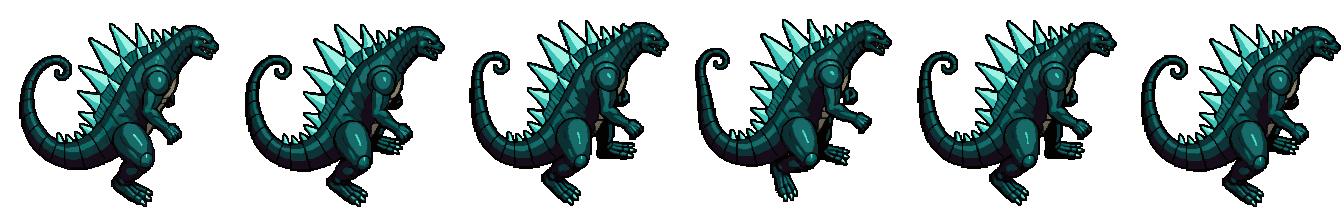
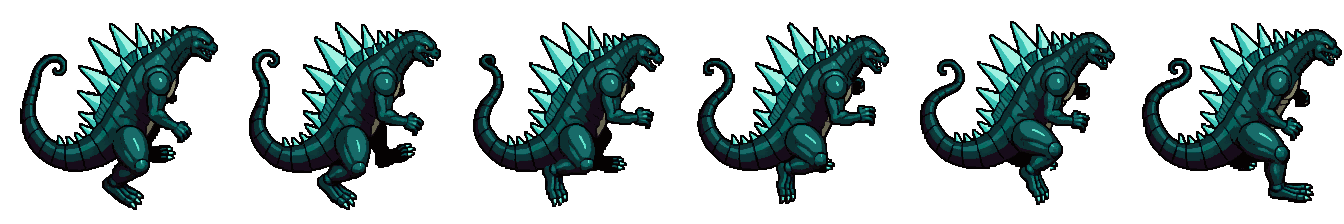
T-613: walk east v3 with frame 5's far leg drawn back in (free hand fix)

Changed region(s): [[0.0, 0.0938, 1.0, 0.9375]]

diff --git a/game/tools/fix_kaiju_walk_e_frame5.py b/game/tools/fix_kaiju_walk_e_frame5.py
@@ -1,0 +1,48 @@
+#!/usr/bin/env python3
+"""T-613 hand fix (board, 2026-11-09), free, no PixelLab: draws the far leg back into frame 5 of the kaiju's walk east.
+
+Walk east version 3 (art-archive/T-613/kaiju_walk_e_v3a.png) loses the far (dark, in shadow) leg in its 5th frame
+(index 4): frames 1 to 4 and 6 show it as a near-black silhouette with two cyan claws beside the planted leg, frame 5 shows
+nothing. The far foot is taken from frame 4's own pixels (box FOOT_BOX: the silhouette and claws right of the knee),
+moved half the way to where frame 6 has it (SHIFT_X) and drawn behind frame 5's own pixels, so the colours are the
+still's palette, the outline is the sheet's own, and the near leg and the ground point are not touched.
+Run from the repo root: python game/tools/fix_kaiju_walk_e_frame5.py [IN.png OUT.png]
+"""
+import sys
+from pathlib import Path
+
+from PIL import Image
+
+FRAME = 224
+SRC_FRAME = 3          # frame 4 (0-based), the neighbour the foot is taken from
+TARGET_FRAME = 4       # frame 5
+FOOT_BOX = (155, 150, 170, 173)   # x0, y0, x1, y1 (x1, y1 excluded) inside the frame
+SHIFT_X = -1
+SHIFT_Y = 0
+
+
+def fix(sheet, src=SRC_FRAME, target=TARGET_FRAME, box=FOOT_BOX, dx=SHIFT_X, dy=SHIFT_Y):
+    sheet = sheet.convert("RGBA")
+    src_f = sheet.crop((src * FRAME, 0, (src + 1) * FRAME, FRAME))
+    tgt = sheet.crop((target * FRAME, 0, (target + 1) * FRAME, FRAME))
+    foot = Image.new("RGBA", (FRAME, FRAME), (0, 0, 0, 0))
+    foot.paste(src_f.crop(box), (box[0] + dx, box[1] + dy))
+    out = foot                                  # behind: the target's own pixels go on top
+    out.alpha_composite(tgt)
+    res = sheet.copy()
+    res.paste(out, (target * FRAME, 0))
+    return res
+
+
+def main(argv):
+    root = Path(__file__).resolve().parents[2] / "art-archive" / "T-613"
+    src = Path(argv[0]) if argv else root / "kaiju_walk_e_v3a.png"
+    dst = Path(argv[1]) if len(argv) > 1 else root / "kaiju_walk_e_v5_handfix.png"
+    if dst.exists():
+        raise SystemExit(f"{dst} exists: never overwrite a version")
+    fix(Image.open(src)).save(dst)
+    print("wrote", dst)
+
+
+if __name__ == "__main__":
+    main(sys.argv[1:])

diff --git a/game/tools/test_fix_kaiju_walk_e_frame5.py b/game/tools/test_fix_kaiju_walk_e_frame5.py
@@ -1,0 +1,35 @@
+"""Tests for fix_kaiju_walk_e_frame5.py (T-613). Run: python -m unittest discover game/tools -p "test_fix_kaiju_walk*" """
+import sys
+import unittest
+from pathlib import Path
+
+from PIL import Image
+
+sys.path.insert(0, str(Path(__file__).resolve().parent))
+import fix_kaiju_walk_e_frame5 as f  # noqa: E402
+
+
+class FixTest(unittest.TestCase):
+    def sheet(self):
+        s = Image.new("RGBA", (224 * 6, 224), (0, 0, 0, 0))
+        s.putpixel((3 * 224 + 160, 160), (5, 2, 2, 255))      # frame 4's far foot
+        s.putpixel((4 * 224 + 100, 100), (50, 60, 70, 255))   # frame 5's own pixel
+        return s
+
+    def test_far_foot_drawn_into_frame_5_only(self):
+        out = f.fix(self.sheet())
+        self.assertEqual(out.getpixel((4 * 224 + 160 + f.SHIFT_X, 160 + f.SHIFT_Y)), (5, 2, 2, 255))
+        self.assertEqual(out.getpixel((4 * 224 + 100, 100)), (50, 60, 70, 255))
+        self.assertEqual(out.size, (224 * 6, 224))
+        for i in (0, 1, 2, 3, 5):
+            self.assertEqual(out.crop((i * 224, 0, i * 224 + 224, 224)).tobytes(),
+                             self.sheet().crop((i * 224, 0, i * 224 + 224, 224)).tobytes())
+
+    def test_own_pixels_stay_on_top(self):
+        s = self.sheet()
+        s.putpixel((4 * 224 + 160 + f.SHIFT_X, 160 + f.SHIFT_Y), (9, 9, 9, 255))
+        self.assertEqual(f.fix(s).getpixel((4 * 224 + 160 + f.SHIFT_X, 160 + f.SHIFT_Y)), (9, 9, 9, 255))
+
+
+if __name__ == "__main__":
+    unittest.main()

diff --git a/tasks/T-613-kaiju-animations-art.md b/tasks/T-613-kaiju-animations-art.md
@@ -1,7 +1,7 @@
 ---
 id: T-613
 title: Art for the kaiju's walk, windup and death animations
-status: flagged-for-review
+status: in-progress
 from: project-lead
 to: asset-generation
 lead: Polish
@@ -81,6 +81,14 @@ Stopped on a cost question for the board: a 224 px animation call costs 5 PixelL
 ### 2026-11-09, Flagged for review → In progress
 
 The board's answer: all three animations stay in scope, but sample first: the windup facing east, at most 20 units, for the board's review before anything else. The agent is making the sample now.
+
+### 2026-11-09, Flagged for review
+
+The windup east sample is made but weak: best 5/10 after 3 calls (15 units; 25 spent on the ticket). Arms stay low, no head throw, a white blob on the shoulder in frames 5-6. Walk east is 7/10. No more calls; waiting for the board's review of the sample.
+
+### 2026-11-09, Flagged for review → In progress
+
+The board likes walk east version 3 except its 5th frame (the left leg is missing). The Asset Generation Agent is fixing that frame by hand, free: no PixelLab generation.
 
 ## Style review
 
@@ -216,3 +224,6 @@ Sample (board's new budget), planned calls, written before the first call: the w
 - 2026-11-09, in-progress → flagged-for-review: the style loop kept version 3 (score 5/10), still below 8 after 3 refines; every version is in its Style review
 
 Sample done: windup east, through the style loop. Calls made: 3 (15 units, of the 4 calls / 20 units allowed; all logged), 4 rounds, scores 4, 3, 5, 4; kept v3 (5/10) in art-archive/T-613/final/kaiju_windup_e.png, below 8, so the loop flagged the ticket again (the Project Lead should set it back). Weak points: the stance and mouth open and the arms rise, but the arms stay low and mostly thin, it never throws the head back, frames 5-6 carry a pale white blob on the shoulder (a PixelLab artifact), and the stride-like leg shapes shift. The still east sprite is itself a teal hide (the palette map to its 30 colours kept that look); the belly band is a thin tan strip in the still too, so what the loop called drift is partly the still's own look. Looks: art-archive/T-613/screenshots/contact_windup_e_dark.png and _light.png, windup_e.gif; and for walk east (7/10, 2 calls, 10 units) contact_walk_e_dark.png and _light.png, walk_e.gif; each sheet is the still east sprite then the animation frames, 2x nearest. Total PixelLab spent on this ticket: 5 calls, 25 units. No further call made; waiting for the board's go.
+- 2026-11-09, flagged-for-review → in-progress: The board (2026-11-09): walk east version 3 (walk_e_v3a) is pretty good; only its 5th frame is wrong, the left leg is missing. Fix that frame by hand, free, no PixelLab generation.
+
+Walk east hand fix (free, no PixelLab call, no loop run). Kept version is now v3 (kaiju_walk_e_v3a.png, six distinct frames) with its 5th frame fixed: art-archive/T-613/kaiju_walk_e_v5_handfix.png, copied to final/kaiju_walk_e.png (the earlier ping-pong pick kept as final/kaiju_walk_e_pingpong_v2.png; v3a untouched). Frame confirmed: the 5th (index 4). What was missing: frames 1 to 4 and 6 show the far leg, in shadow, as a near-black silhouette with two cyan claws beside the planted leg; frame 5 had none, so it stood on one leg with an empty gap (if the board meant the other leg, the near one, say so: that one is present in all six frames). Drawn: the silhouette and claws of frame 4 (box 155,150 to 170,173), moved 1 px left, behind frame 5's own pixels, so colours, outline and the ground point are the sheet's own (30 colours, alpha 0 or 255, 1344 x 224). Honest limit: the far leg is mostly hidden behind the hanging near calf, so only the dark silhouette under the knee and both claws show; the claws hardly move from frame 4 to 5, then jump to frame 6's place. Script: game/tools/fix_kaiju_walk_e_frame5.py (test test_fix_kaiju_walk_e_frame5.py, passes); a first try with a 6 px shift (claws hidden) and a 3 px shift are kept in art-archive/T-613/. For review: art-archive/T-613/screenshots/walk_e_v5_handfix/ (walk_e_v5_x3_dark.png and _light.png, frame5_before_after_dark.png and _light.png, walk_e_v5.gif at 120 ms).
